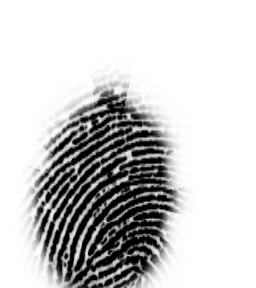
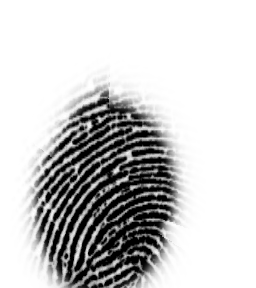
Using c_anisotropic to display isotropic result with well chosen parameters

diff --git a/src/pressure.cpp b/src/pressure.cpp
@@ -52,16 +52,11 @@ std::vector<float> coeffs(cv::Point center, std::vector<cv::Point> coords,
     int size = coords.size();
     float dist;
 
-    //Utiliser la fonction c_anisotropic aussi vu qu'elle permet d'avoir un résultat isotrope
-    if (iso) {
-        for (int i = 0; i < size; i++) {
-            dist = cv::norm(center - coords[i]);
-	        res.push_back(c_isotropic(dist, param));
-        }
-    } else {
-        for (int i = 0; i < size; i++)
+    for (int i = 0; i < size; i++)
+        if (iso)
+            res.push_back(c_anisotropic(coords[i].x, coords[i].y, center, param_x, param_x, param));
+        else
             res.push_back(c_anisotropic(coords[i].x, coords[i].y, center, param_x, param_y, param));
-    }
 
     return res;
 }
@@ -73,40 +68,38 @@ std::vector<float> coeffs_polar(cv::Point center, std::vector<cv::Point> coords,
 {
     std::vector<float> res;
     int size = coords.size();
-    float dist;
     std::vector<std::pair<float, float>> rand_ang = random_angles(number_angles, threshold);
     bool in_rand_ang = false;
+    float r, theta;
 
-    //Utiliser la fonction c_anisotropic aussi vu qu'elle permet d'avoir un résultat isotrope
-    if (iso) {
-        for (int i = 0; i < size; i++) {
-            dist = cv::norm(center - coords[i]);
-	        res.push_back(c_isotropic(dist, param));
-        }
-    } else {
-        float r, theta;
-        for (int i = 0; i < size; i++) {
-            cv::Point rotated(int(cos(param_rot) * coords[i].x - sin(param_rot) * coords[i].y),
-                              int(sin(param_rot) * coords[i].x + cos(param_rot) * coords[i].y));
-            cartesian_to_polar(center, rotated, r, theta);
+    for (int i = 0; i < size; i++) {
+        cv::Point rotated(int(cos(param_rot) * coords[i].x - sin(param_rot) * coords[i].y),
+                            int(sin(param_rot) * coords[i].x + cos(param_rot) * coords[i].y));
+        cartesian_to_polar(center, rotated, r, theta);
 
-            for (auto it : rand_ang) {
-                if (it.first <= theta && theta <= it.second) {
-                    in_rand_ang = true;
+        for (auto it : rand_ang) {
+            if (it.first <= theta && theta <= it.second) {
+                in_rand_ang = true;
+                if (iso)
+                    res.push_back(c_anisotropic_polar(r, theta, center, 1.5*param_x, 1.5*param_x, 5*param));
+                else
                     res.push_back(c_anisotropic_polar(r, theta, center, 1.5*param_x, param_y, 5*param));
-                    break;
-                }
-                in_rand_ang = false;
+                break;
             }
-
-            if (!in_rand_ang)
-                res.push_back(c_anisotropic_polar(r, theta, center, param_x, param_y, param));
-
-            // if (-PI/8 <= theta && theta <= 0)
-            //     res.push_back(c_anisotropic_polar(r, theta, center, 1.5*param_x, param_y, 5*param));
-            // else
-            //     res.push_back(c_anisotropic_polar(r, theta, center, param_x, param_y, param));
+            in_rand_ang = false;
         }
+
+        if (!in_rand_ang) {
+            if (iso)
+                res.push_back(c_anisotropic_polar(r, theta, center, param_x, param_x, param));
+            else
+                res.push_back(c_anisotropic_polar(r, theta, center, param_x, param_y, param));
+        }
+
+        // if (-PI/8 <= theta && theta <= 0)
+        //     res.push_back(c_anisotropic_polar(r, theta, center, 1.5*param_x, param_y, 5*param));
+        // else
+        //     res.push_back(c_anisotropic_polar(r, theta, center, param_x, param_y, param));
     }
 
     return res;

diff --git a/src/image.cpp b/src/image.cpp
@@ -740,10 +740,9 @@ Image Image::ErodeNaive(std::vector<cv::Point> struct_elt)
     {
         for (int j = 1; j < cols - 1; j++)
         {
-            for (std::vector<cv::Point>::iterator ii = struct_elt.begin(); ii != struct_elt.end(); ++ii)
+            for (auto ii : struct_elt)
             {
-                //for (auto ii: struct_elt) {
-                if (std::find(high_intensity.begin(), high_intensity.end(), cv::Point(j, i) + (*ii)) == high_intensity.end())
+                if (std::find(high_intensity.begin(), high_intensity.end(), cv::Point(j, i) + ii) == high_intensity.end())
                     res(i, j) = 0;
             }
         }

diff --git a/demo/test_pressure.cpp b/demo/test_pressure.cpp
@@ -51,7 +51,7 @@ int main()
     cv::Point center = finger.center();
 
     //isotropic function
-    Image iso = finger.pressure(center, points, false, 50, 0.00035, 0.00035);
+    Image iso = finger.pressure(center, points, true);
     //anisotropic function
     Image aniso = finger.pressure(center, points);
     //anisotropic polar function
